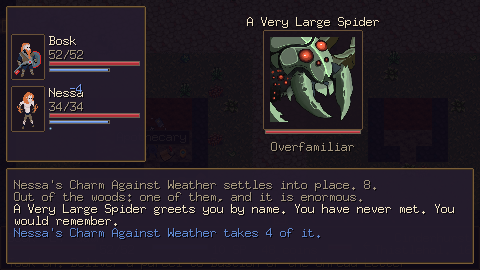
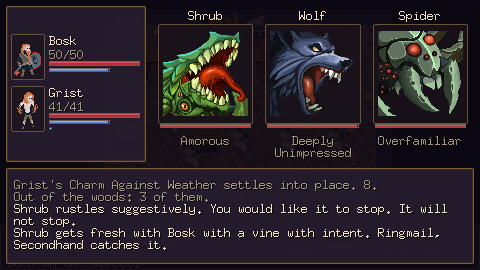
The screenshots, and two captions that had stopped being true
Three feature commits out of date, which is the state they keep ending up
in -- the shots are taken by the tour and copied across by hand, and
nothing connects the two. Refreshed from a clean run, with the inn's
common room and a conversation added, since both are whole screens the
gallery had no row for.

Two captions had gone from stale to wrong, which is worse. The hire shot
was labelled "someone outside an inn", and they have been inside it since
the taproom landed. And `lineage.png` showed a companion with no lineage
on this seed: renamed to `companion.png` and captioned for what the sheet
actually has on it, which is their cut and the story they are in the
middle of. A file called lineage.png that does not show one is a small
lie of exactly the kind this repo spends its comments arguing against.

The battle frame is the resolving one rather than the command list, which
covers the creatures on purpose and therefore makes a poor advertisement
for them.

ASSET-LICENSING said "the six PNGs in docs/screenshots"; there were
twelve before today. It now says "the screenshots", because the count was
never the load-bearing half of that sentence and a number kept in step by
hand is a number that will be wrong.

diff --git a/README.md b/README.md
@@ -16,18 +16,20 @@ that nobody in the world ever acknowledges the joke.
 
 | | |
 |---|---|
-| ![The overworld: roads and terrain with locations marked](docs/screenshots/overworld.png) | ![A turn-based battle: the company standing in the field facing two creatures, with the transcript across the bottom](docs/screenshots/battle.png) |
+| ![The overworld: roads and terrain in the rain, with four locations named](docs/screenshots/overworld.png) | ![A turn-based battle: the company on the left, three creatures with names and epithets across the field, and the transcript along the bottom](docs/screenshots/battle.png) |
 | Overworld — roads, terrain, points of interest | Battle — the company, the field, the transcript |
-| ![A town of red-roofed buildings along a paved street](docs/screenshots/town.png) | ![A dungeon of rooms and corridors with lurking creatures](docs/screenshots/dungeon.png) |
-| Town — generated from the location's seed | Dungeon — rooms, foes, chests, a boss |
-| ![A parchment map showing explored terrain](docs/screenshots/map.png) | ![The blacksmith's stock, each weapon with an icon](docs/screenshots/shop.png) |
-| The map — only what you have walked past | A shop, with icons |
-| ![The character sheet and pack](docs/screenshots/character.png) | ![The quest log, showing a delivery errand and the line saying what to do next](docs/screenshots/quests.png) |
-| Character sheet and pack | Errands, generated from the world |
-| ![Someone outside an inn offering to join for coins](docs/screenshots/hire.png) | ![A hireling walking behind the player through a town](docs/screenshots/party.png) |
-| Hiring — cheaper, because she is part fey | The company, following you around |
-| ![A companion's sheet showing part-fey ancestry](docs/screenshots/lineage.png) | ![Choosing which party member an item is used on](docs/screenshots/targeting.png) |
-| A hireling's sheet, ancestry and all | Choosing who an effect lands on |
+| ![A town of red-roofed buildings along a paved street, with a coloured door on the blacksmith and another on the inn](docs/screenshots/town.png) | ![The inn's common room: a wooden bar with stools, trophies on the wall, a fire, and people drinking at round tables](docs/screenshots/taproom.png) |
+| Town — generated from the location's seed | Inside the inn, where the hirelings are |
+| ![A dungeon of rooms and corridors with lurking creatures](docs/screenshots/dungeon.png) | ![A parchment map showing explored terrain](docs/screenshots/map.png) |
+| Dungeon — rooms, foes, chests, a boss | The map — only what you have walked past |
+| ![The blacksmith's stock, each weapon with an icon](docs/screenshots/shop.png) | ![The character sheet and pack](docs/screenshots/character.png) |
+| A shop, with icons | Character sheet and pack |
+| ![The quest log, showing a delivery errand and the line saying what to do next](docs/screenshots/quests.png) | ![Someone at the end of the inn's bar offering to join for sixty-six coins and eleven per cent of the take](docs/screenshots/hire.png) |
+| Errands, generated from the world | Hiring — the cut quoted before it is charged |
+| ![A hireling walking behind the player through a town](docs/screenshots/party.png) | ![A companion's sheet: their cut of the coin, and the story they are in the middle of](docs/screenshots/companion.png) |
+| The company, following you around | A hireling's sheet, cut and story and all |
+| ![A companion asked how they are holding up, with five things to say to them](docs/screenshots/talk.png) | ![Choosing which party member an item is used on](docs/screenshots/targeting.png) |
+| Talking to the people you hired | Choosing who an effect lands on |
 
 ## Running it
 

diff --git a/docs/ASSET-LICENSING.md b/docs/ASSET-LICENSING.md
@@ -16,8 +16,11 @@ The repository as it stands is clean. No art, audio, or font file is tracked in
 git; `assets-raw/`, `shots/`, `saves/`, and the built binary are all ignored,
 and `assets/manifest.json` contains only file *paths*. The MIT `LICENSE` already
 carves art and audio out of its grant. The only bundle-derived pixels in version
-control are the six PNGs in `docs/screenshots/`, and every licence family below
-explicitly permits screenshots.
+control are the screenshots in `docs/screenshots/`, and every licence family
+below explicitly permits screenshots. The count used to be written down here as
+six and was fourteen by the time anybody looked; a number that has to be kept in
+step by hand is a number that will be wrong, and it was never the load-bearing
+half of the sentence.
 
 The runtime-load design exists because **the repository is public**, not because
 shipping the game is restricted. Distributing Slycrel with the art baked in, to
